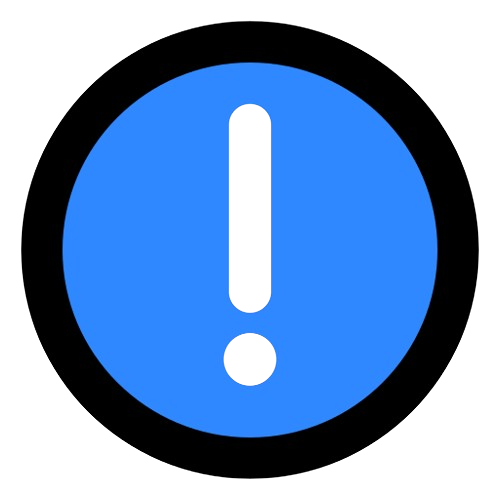
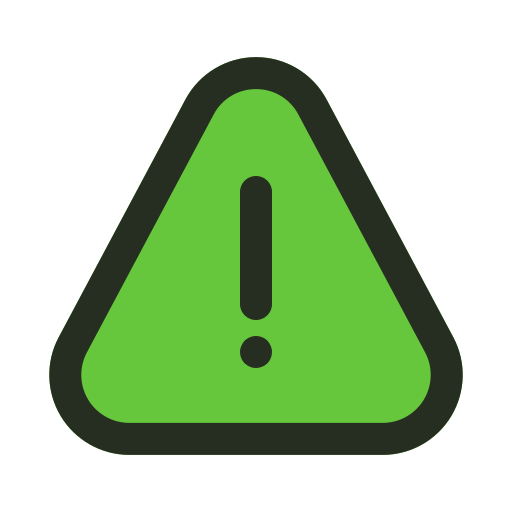
Cambios de iconos de las alertas

diff --git a/src/components/AlertComponent.js b/src/components/AlertComponent.js
@@ -19,7 +19,7 @@ const AlertComponent = ({ visible, type, message, onClose, url = null }) => {
       break;
     case 4:
       title = 'Aviso';
-      icon = require('../../assets/gol.png'); // Cambien el icono si no les gusta
+      icon = require('../../assets/logo.png'); // Cambien el icono si no les gusta
       break;
     default:
       title = '';
